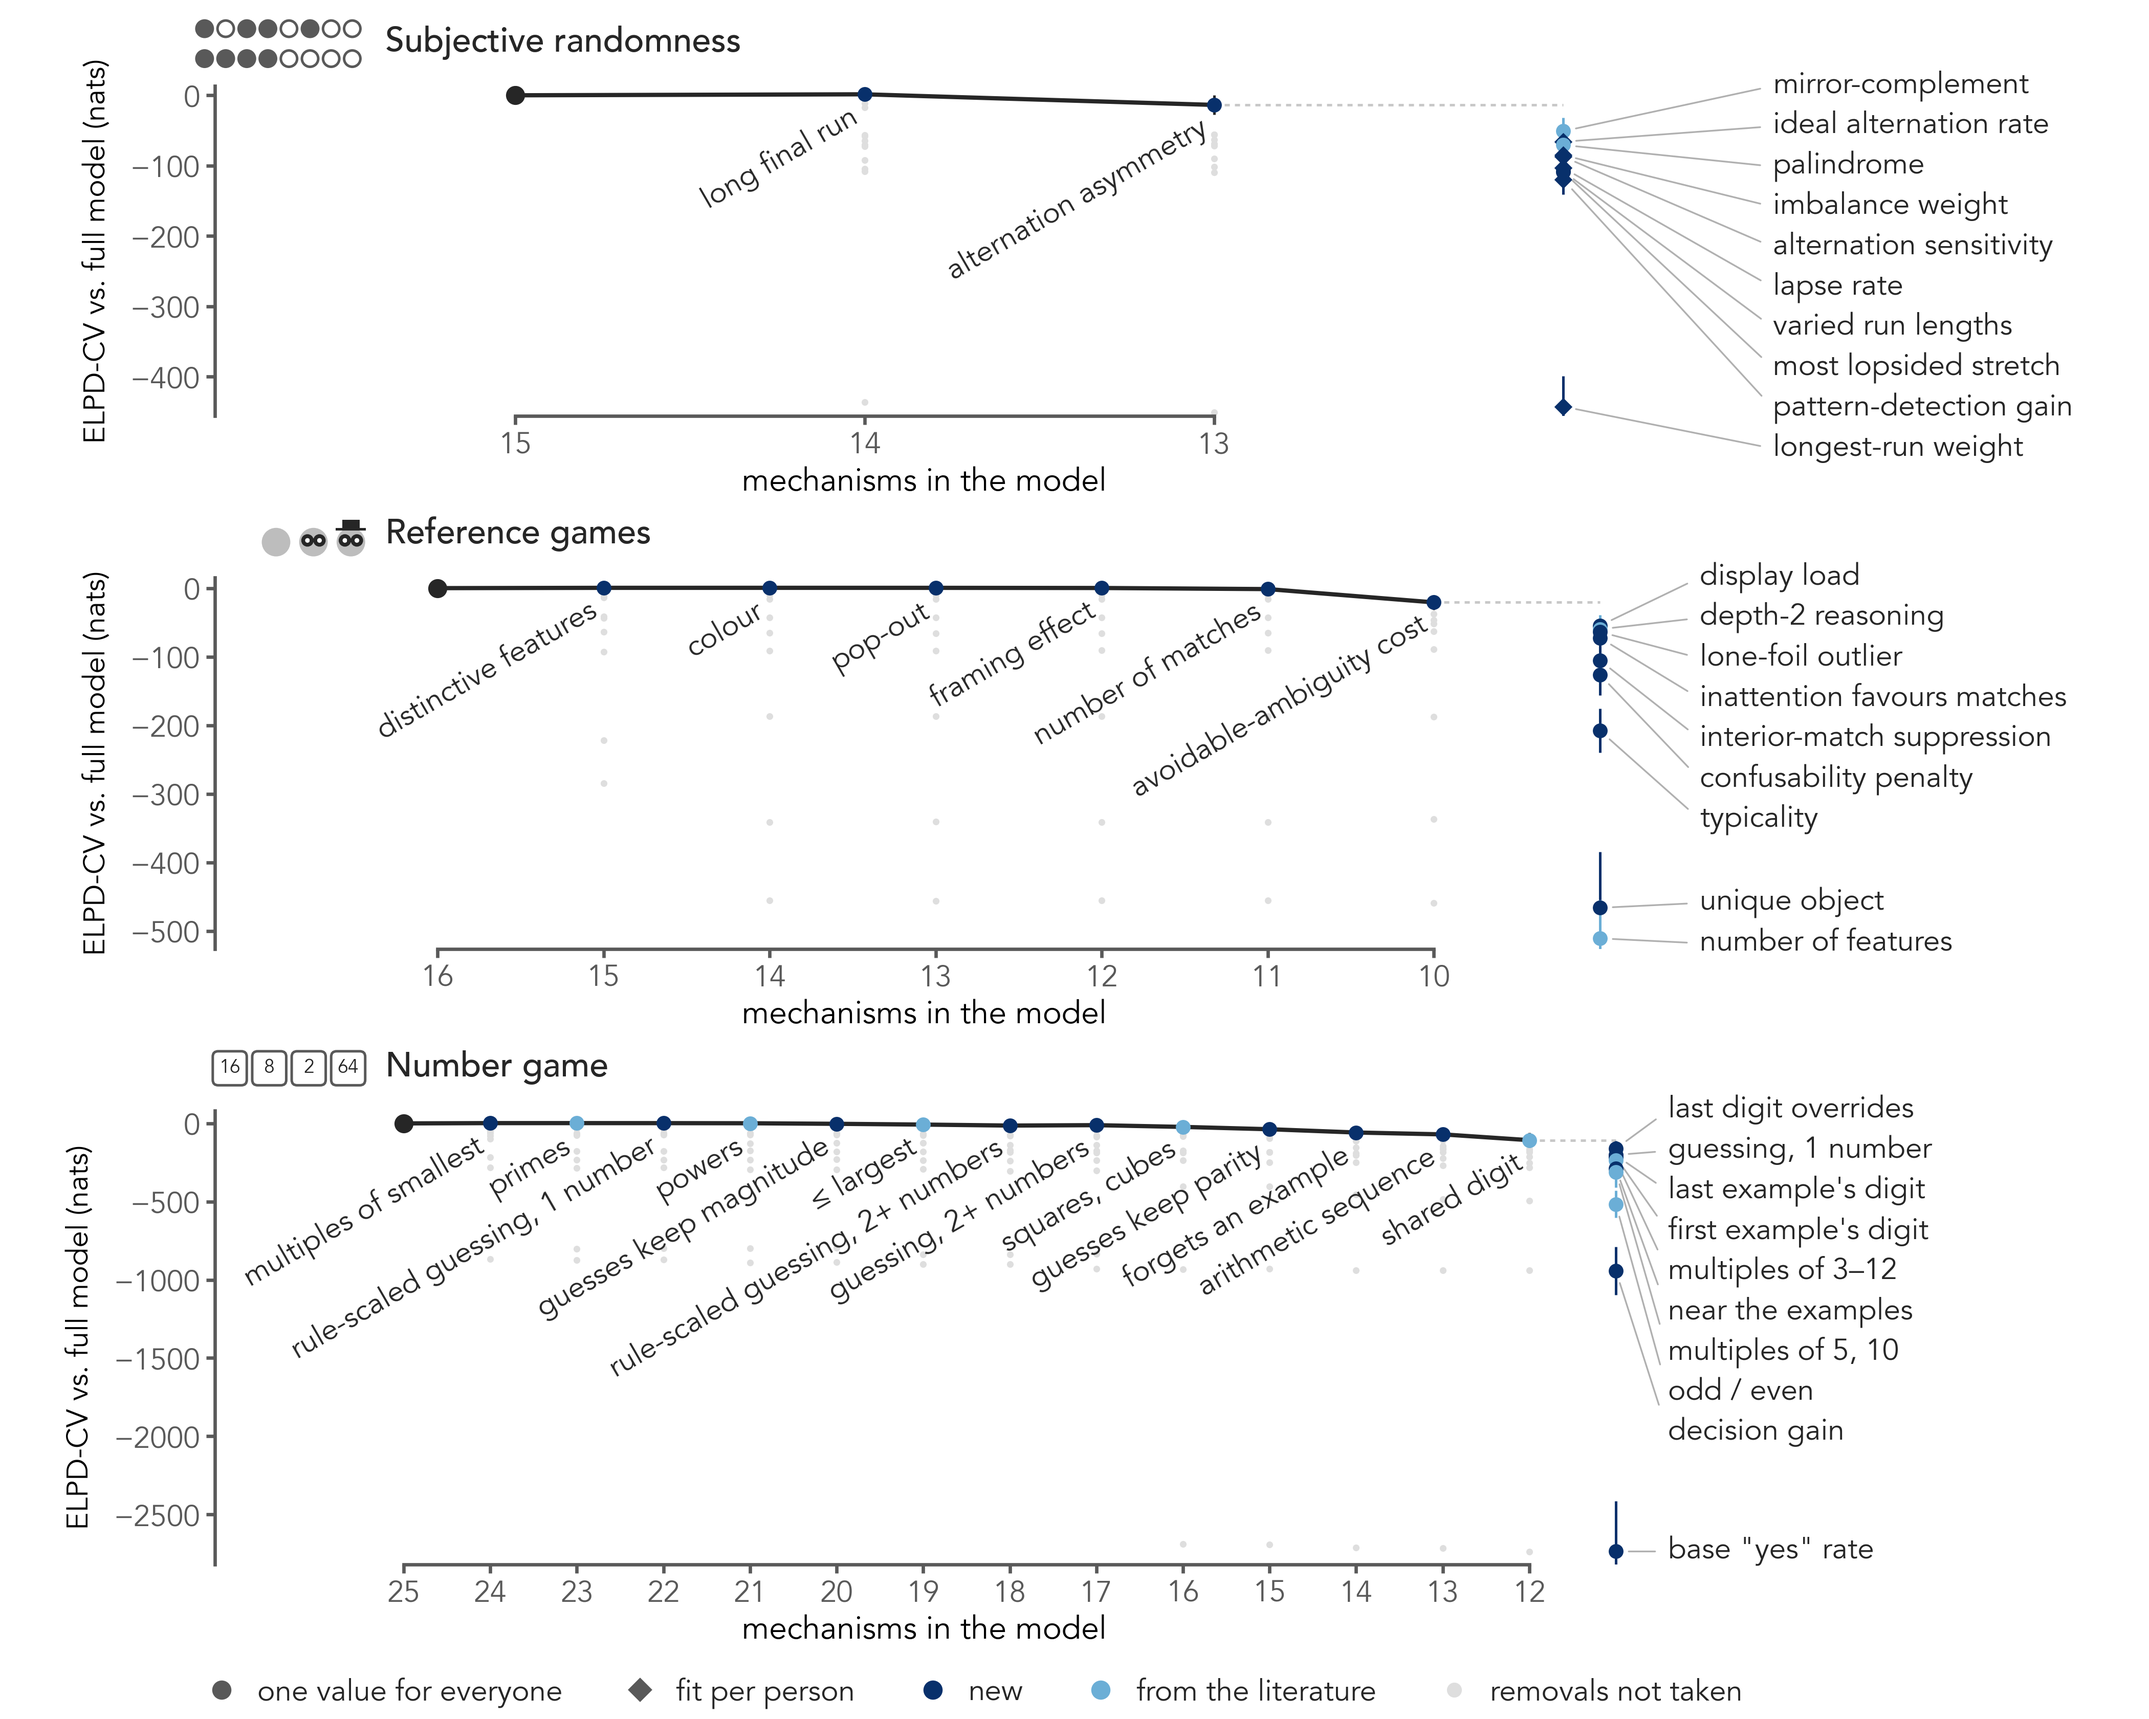
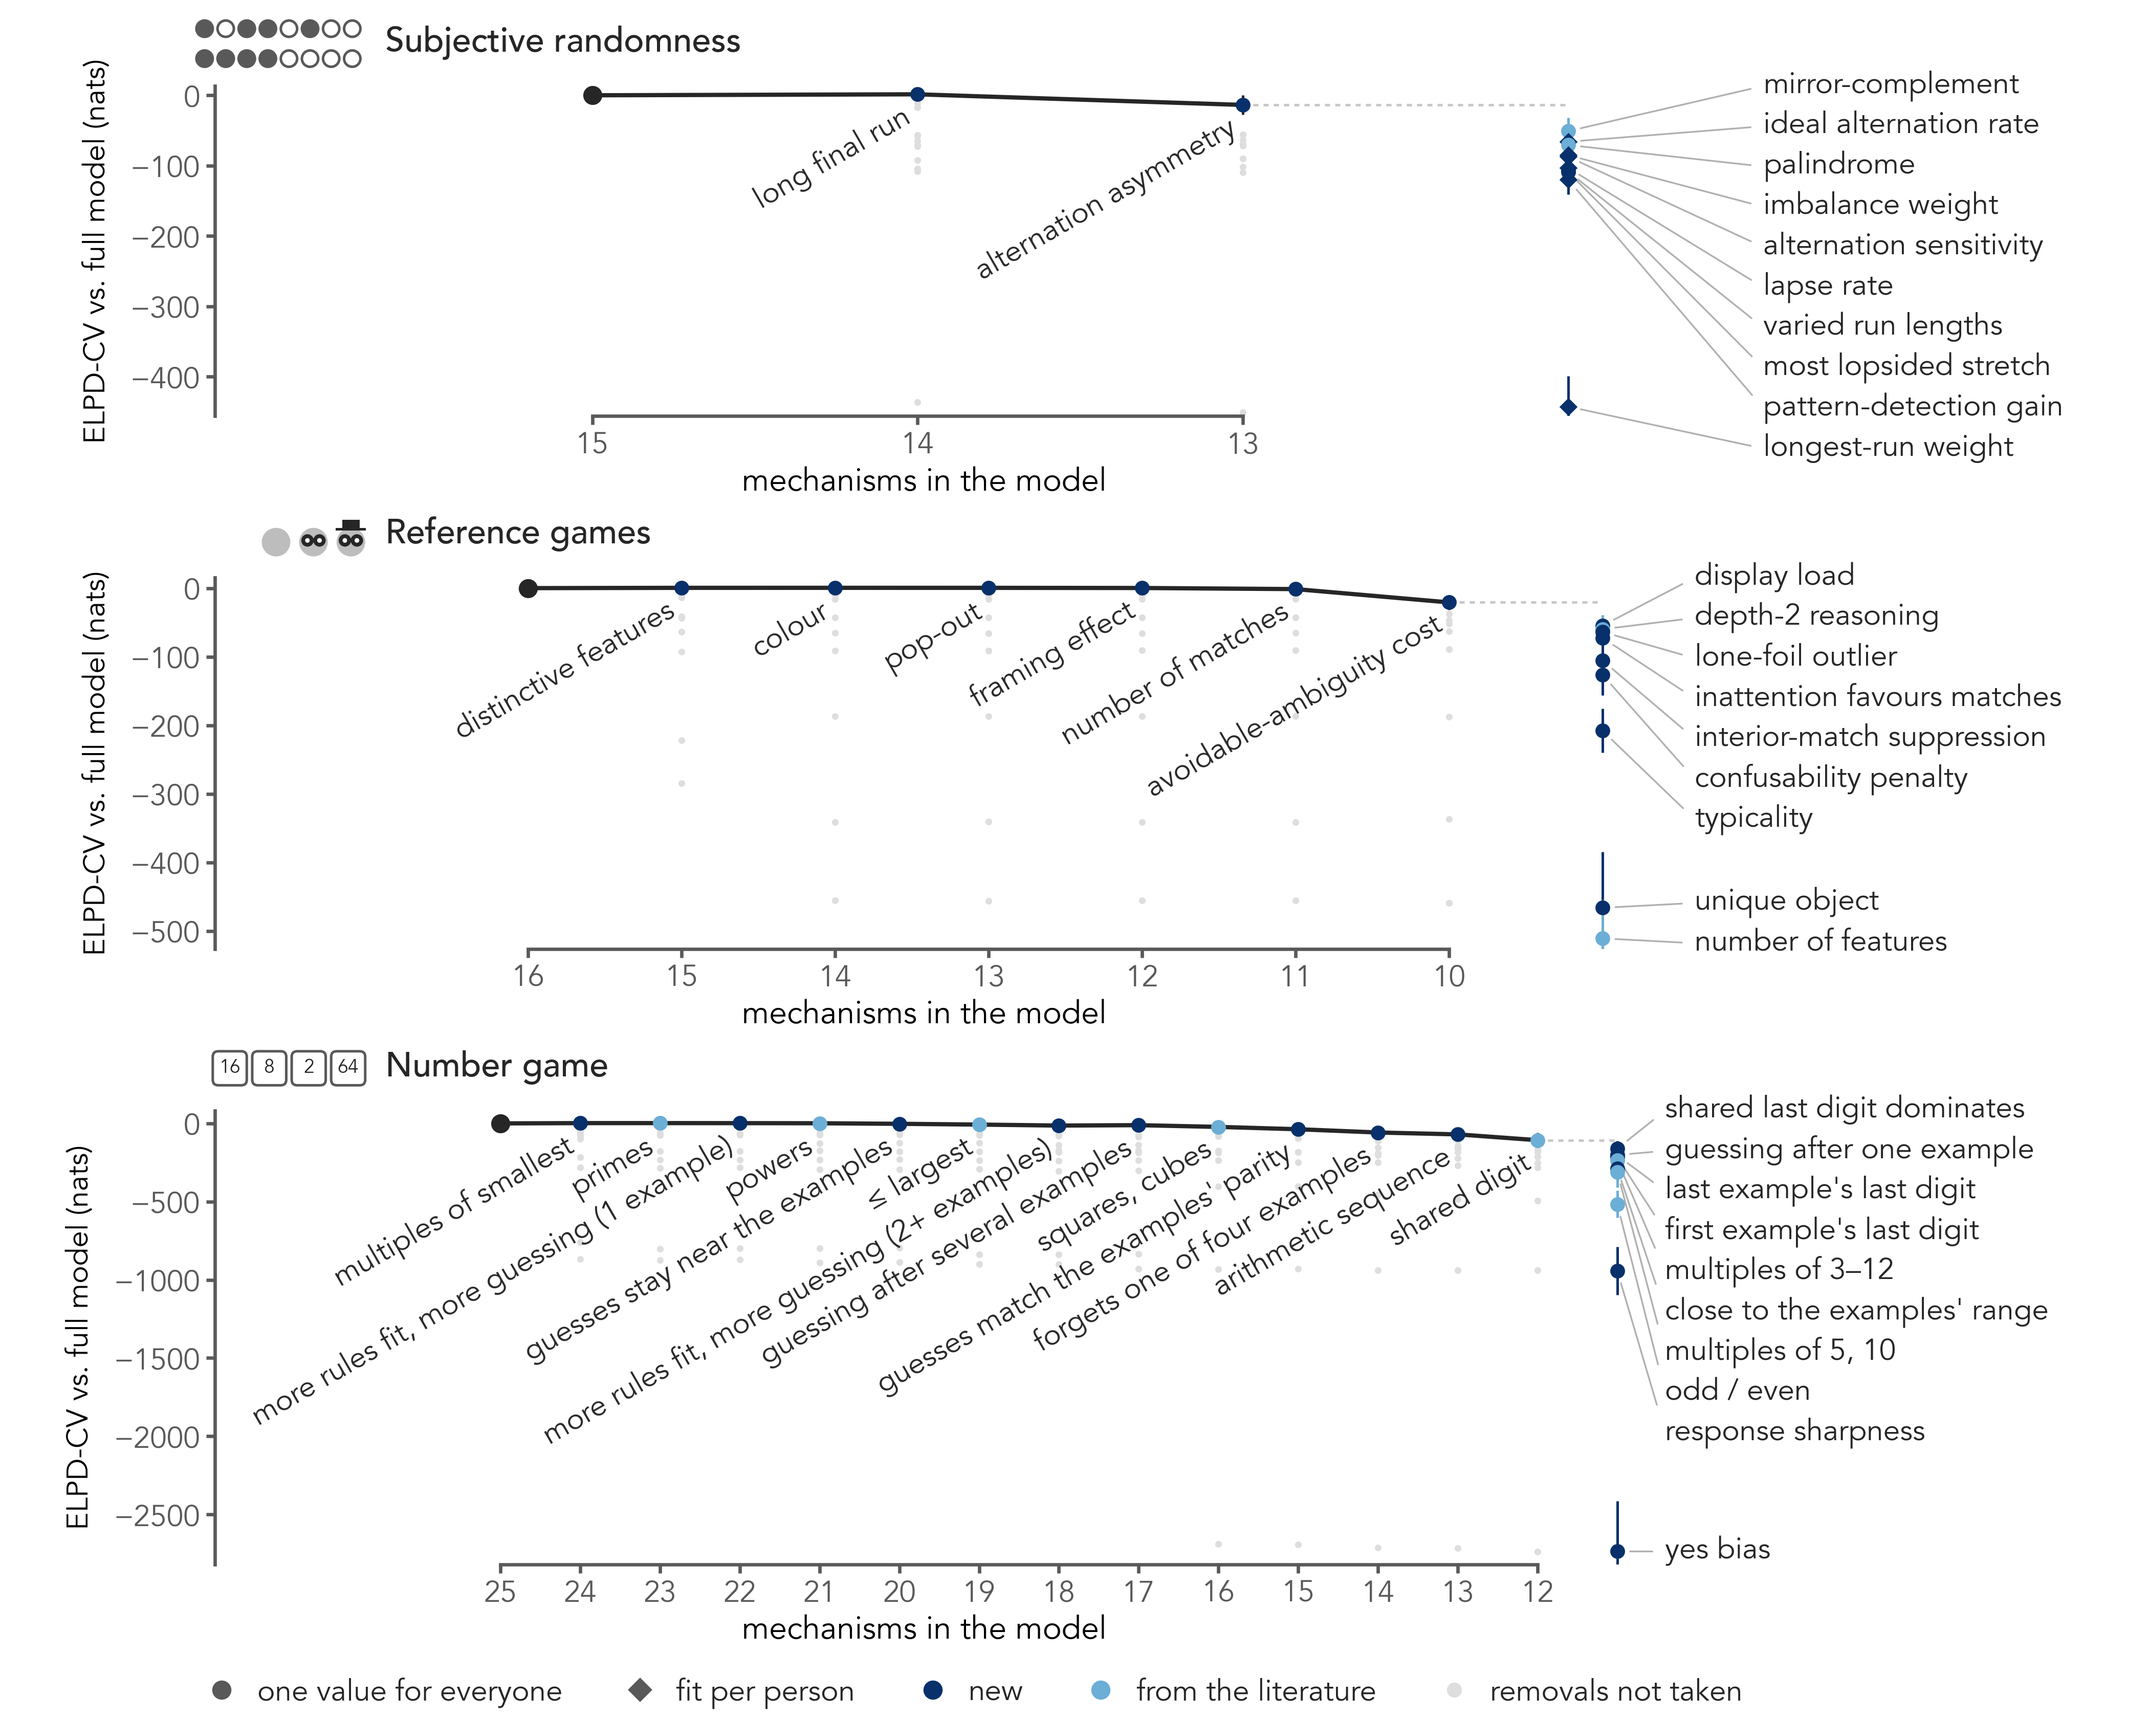
Figure 4 draft: number-game names that say what each does (guessing after one example, yes bias, response sharpness, ...)

diff --git a/data/paper/work/fig4_draft/fig4_draft.py b/data/paper/work/fig4_draft/fig4_draft.py
@@ -93,7 +93,7 @@ def draw(ax, elimination, names):
         labels.append((yo, name, color, yo))
     # the options' names in a column right of them, spread apart, a leader to each
     ax.set_ylim(lo - 0.03 * abs(lo), 0.03 * abs(lo))
-    ax.set_xlim(n[0] + 0.5 + 0.12 * (n[0] - xo), xo - 0.2)  # room left for the first step's name
+    ax.set_xlim(n[0] + 0.5 + 0.22 * (n[0] - xo), xo - 0.2)  # room left for the first step's name
     fig = ax.figure
     fig.canvas.draw()
     to_data = ax.transData.inverted()
